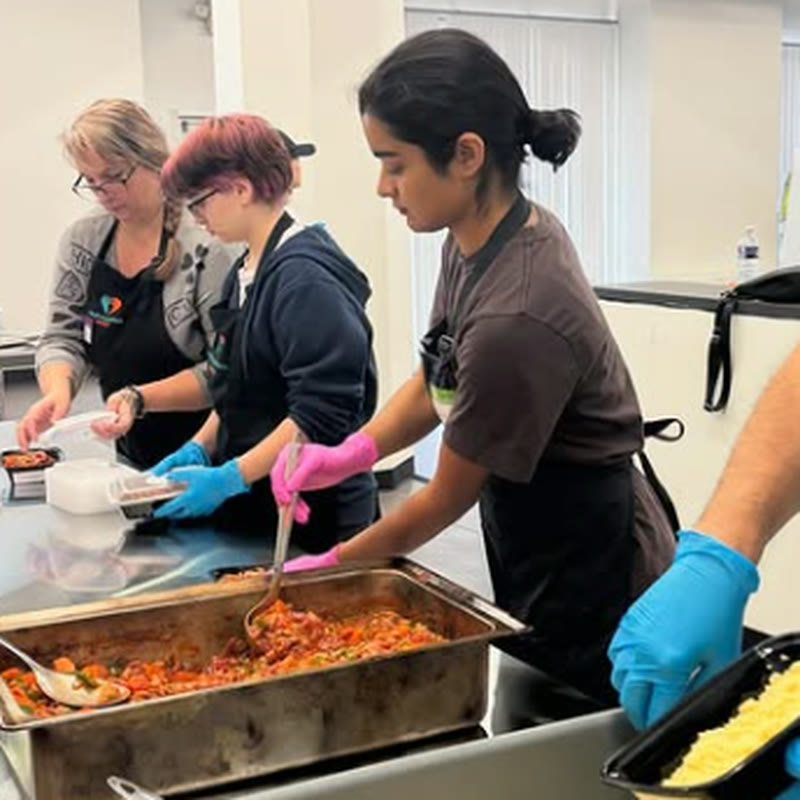
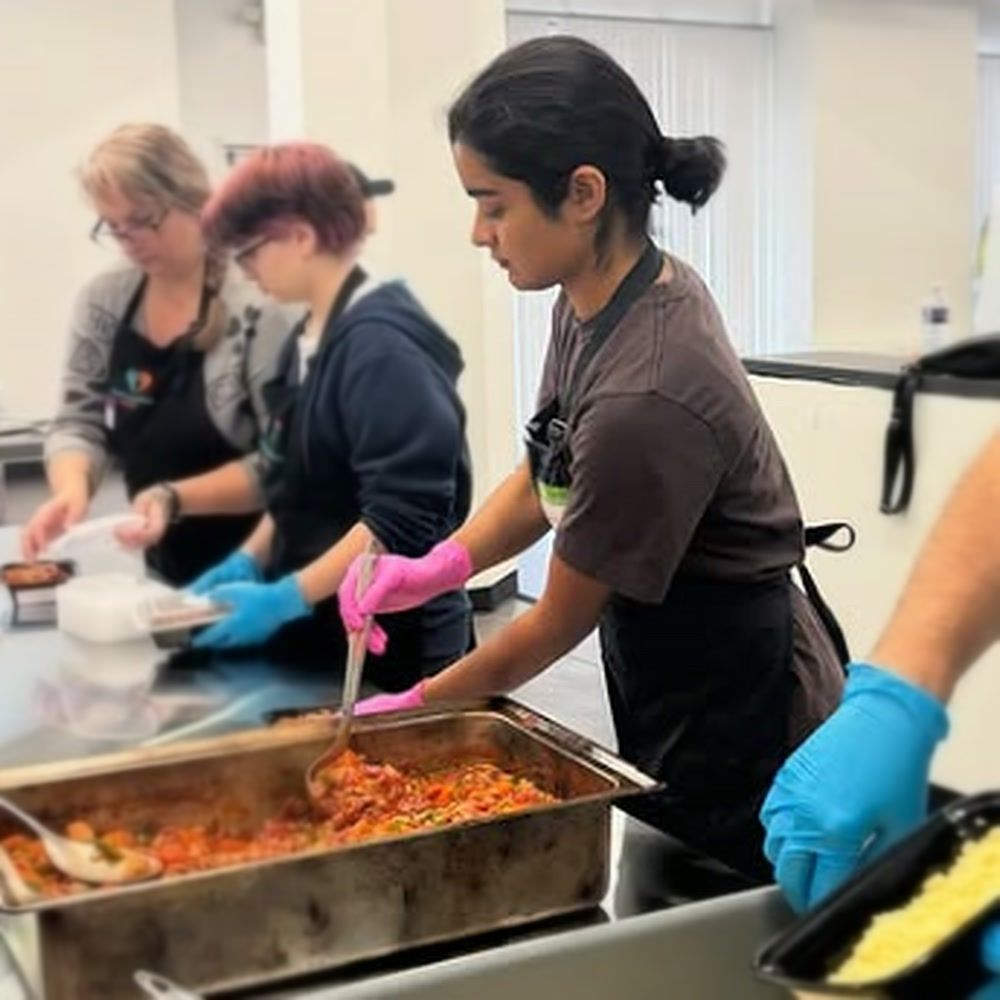
Sharpen Our Giving Kitchen cover with soft background focus

diff --git a/volunteering.html b/volunteering.html
@@ -87,7 +87,7 @@
 
       <div>
         <div class="logo-card" tabindex="0">
-          <img class="photo" src="images/ogk-photo.jpg?v=2" alt="Sruti portioning meals with other volunteers at Our Giving Kitchen">
+          <img class="photo" src="images/ogk-photo.jpg?v=3" alt="Sruti portioning meals with other volunteers at Our Giving Kitchen">
           <div class="overlay">
             <p class="role">Volunteer · Sep 2025 – May 2026</p>
             <p>Helped prepare food once a week for meals distributed to the Pittsburgh community.</p>
